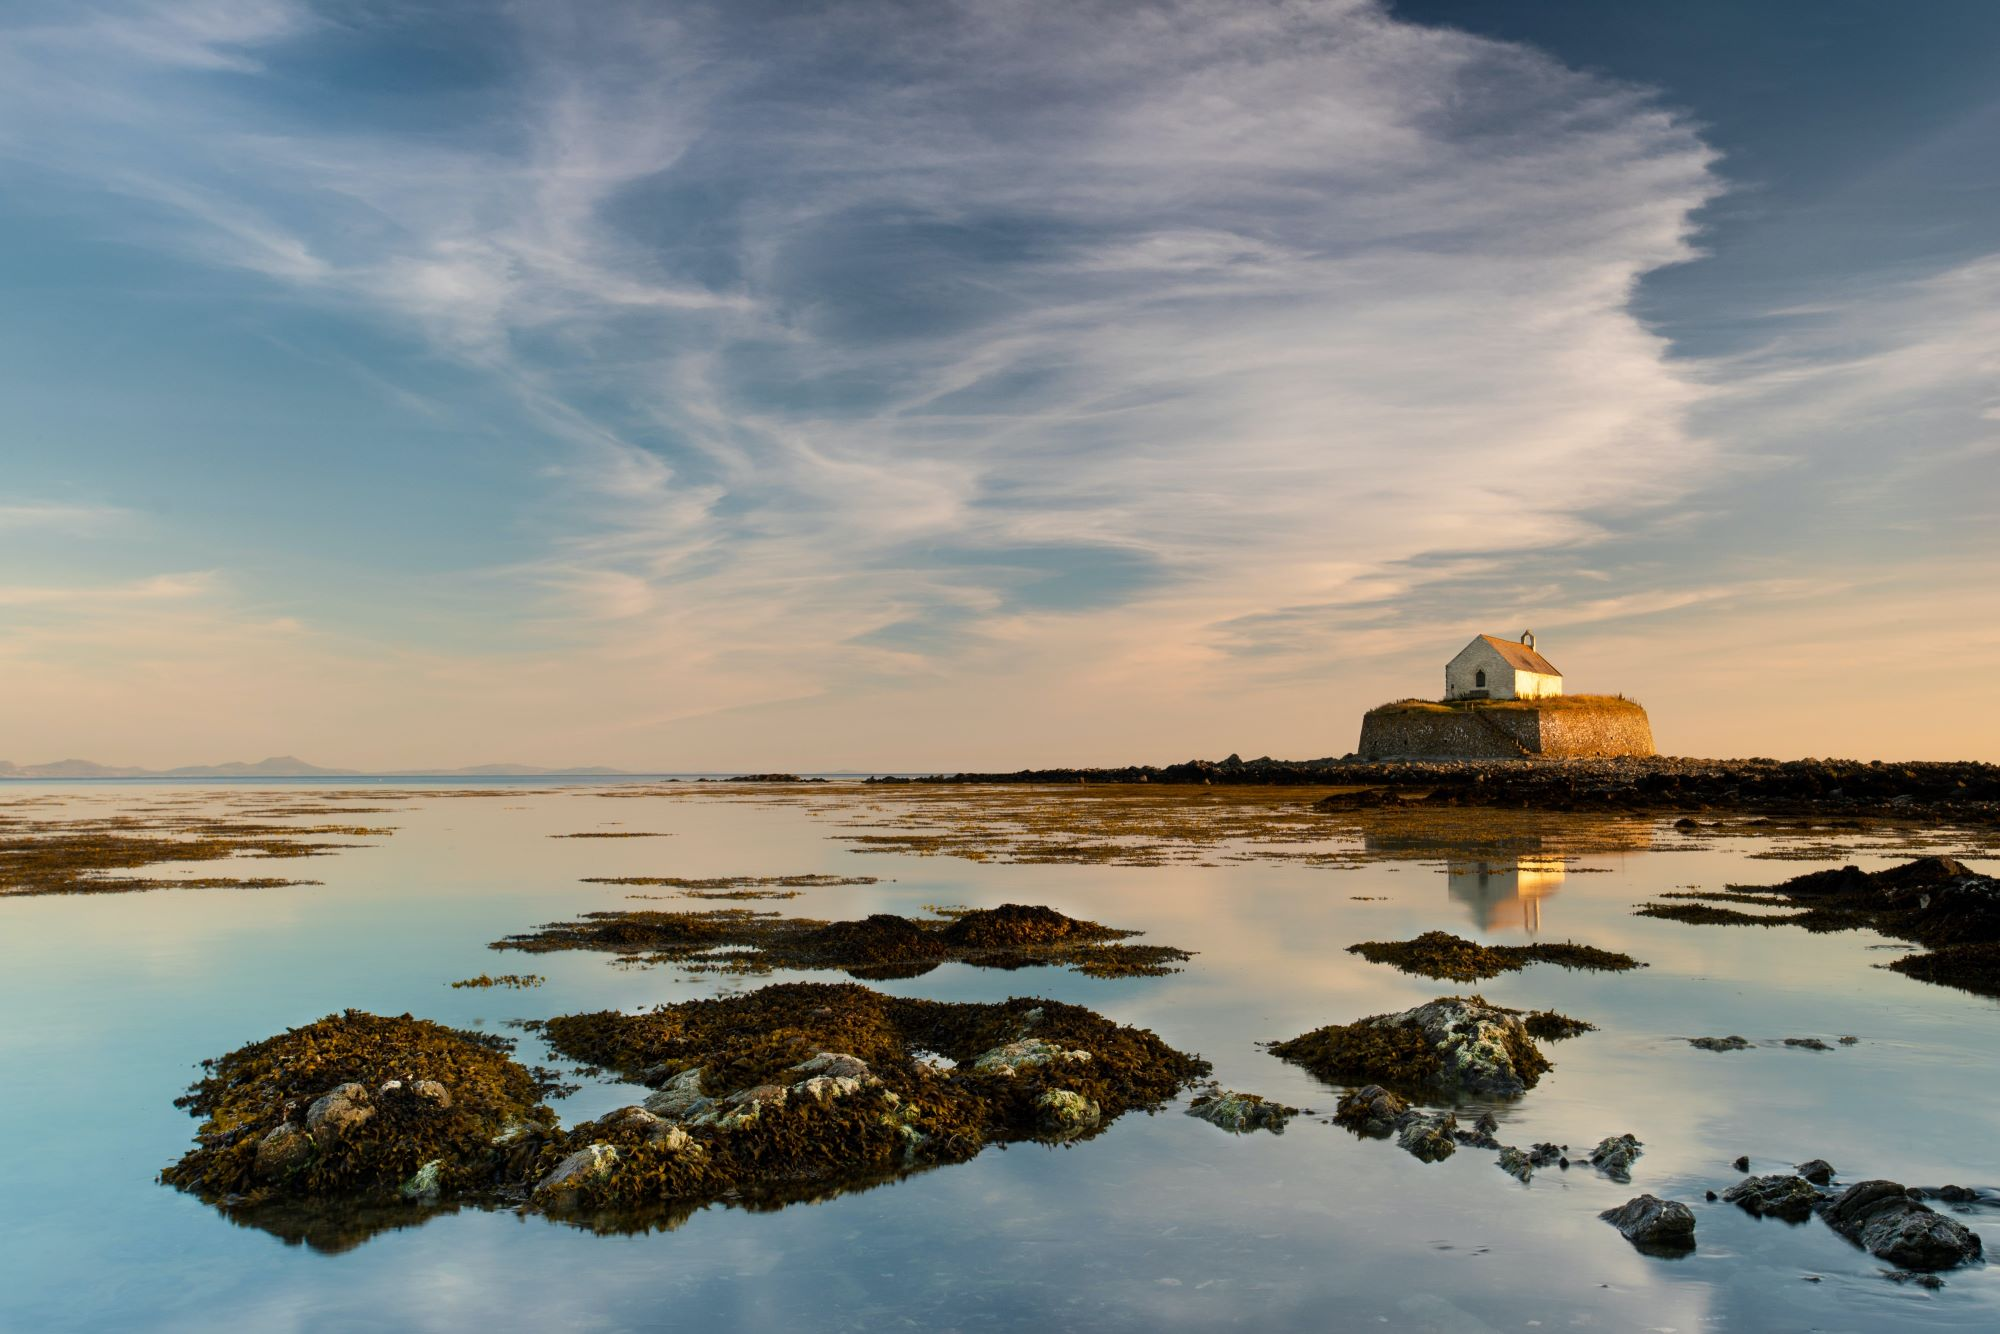
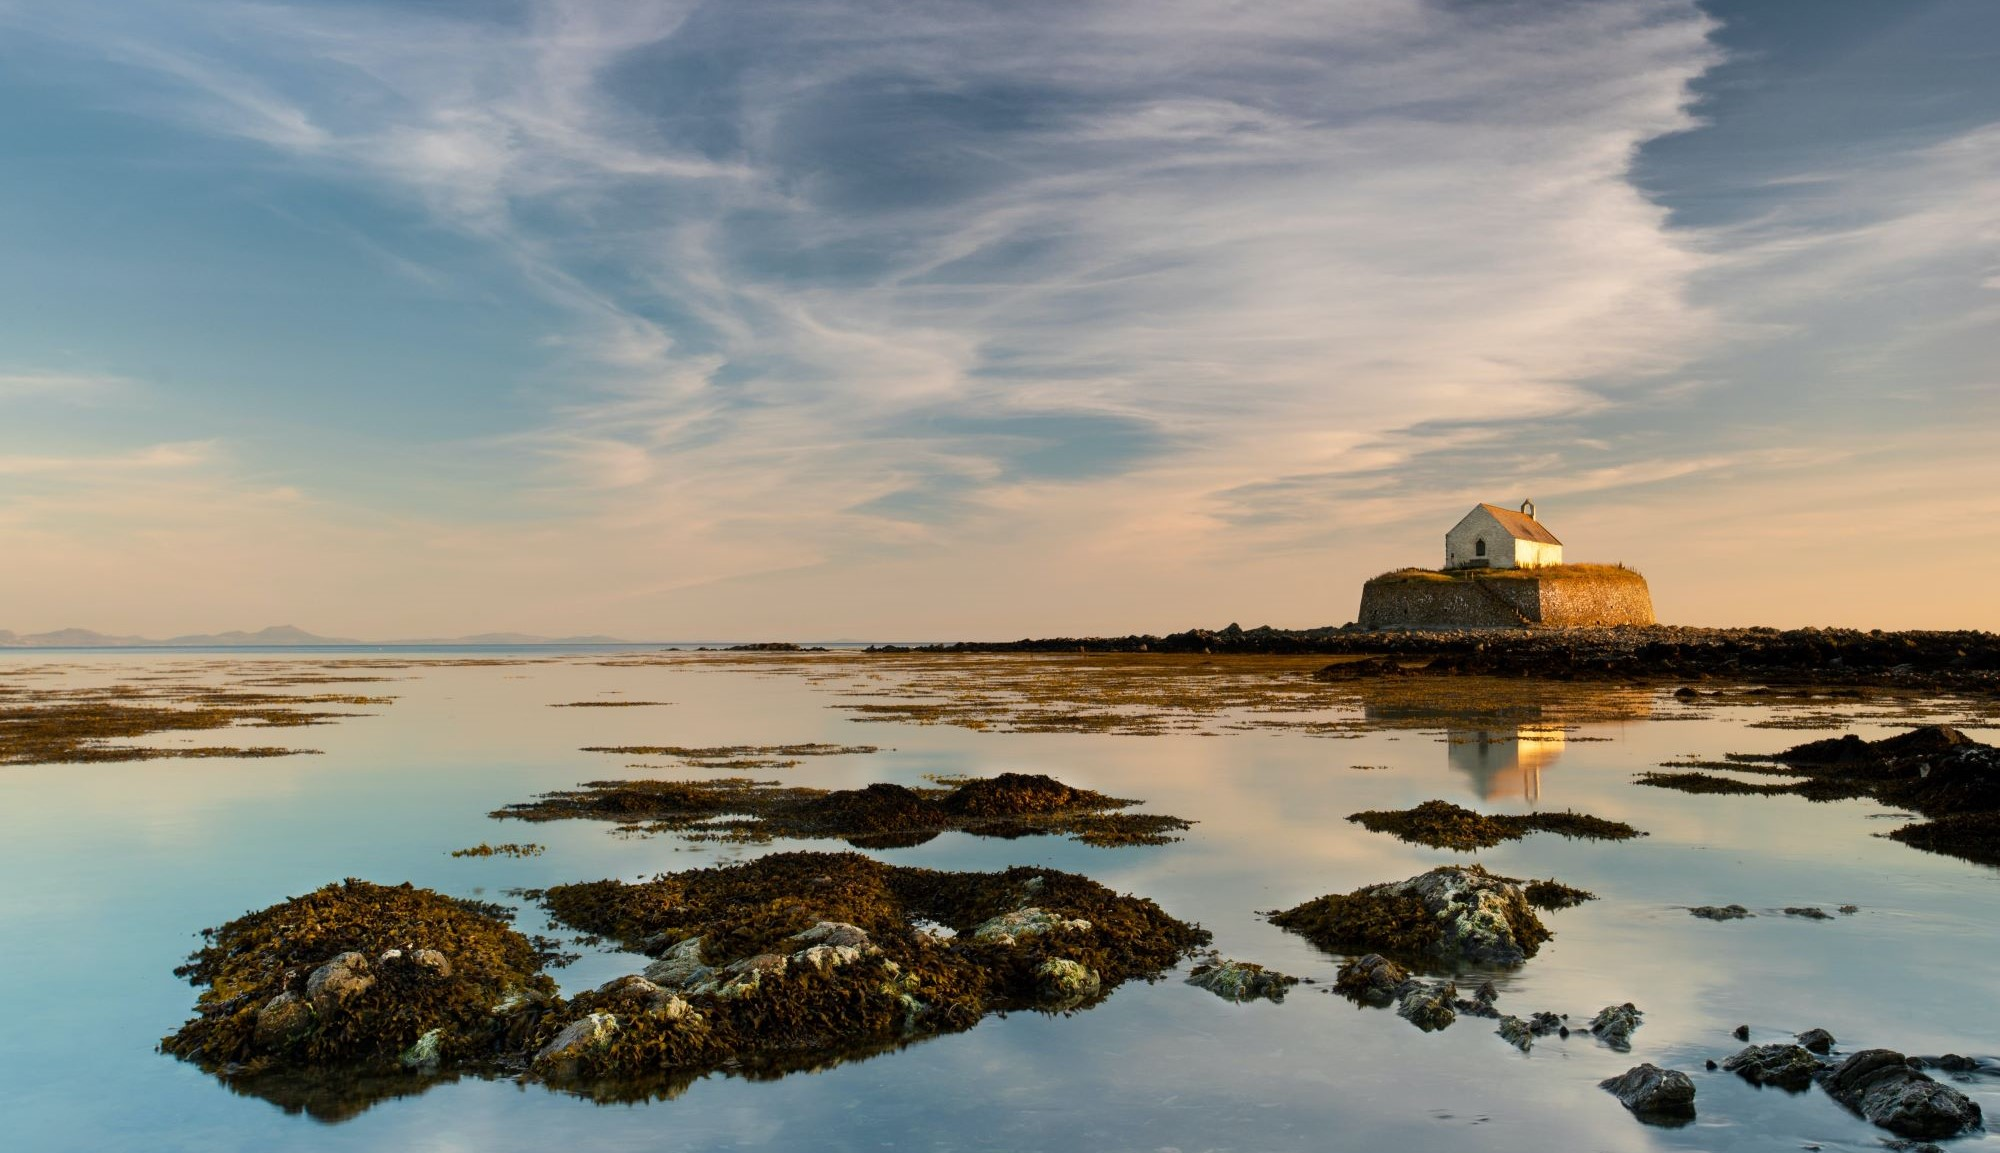
update

diff --git a/index.html b/index.html
@@ -8,19 +8,36 @@
     <script src="./app.js" defer></script>
 </head>
 <body>
-    <button></button>
-    <img id="displayImage" src="./images/large/ynys-llanddwyn-daniel-sessler.jpg" alt="Photograph of Ynys Llanddwyn at Newborough, Anglesey by Daniel Sessler. White stone lighthouse perched on a small rockey, tidal island at the edge of the sea">
-    <button></button>
-    <div class="thumbnails">
-        <img 
-        srcset="./images/thumbnails/ynys-llanddwyn-daniel-sessler.jpg 160w, ./images/large/ynys-llanddwyn-daniel-sessler.jpg 2000w" 
-        src="./images/large/ynys-llanddwyn-daniel-sessler.jpg" alt="Photograph of Ynys Llanddwyn at Newborough, Anglesey by Daniel Sessler. White stone lighthouse perched on a small rockey, tidal island at the edge of the sea" />
-        <img src="./images/large/tenby-harbour-beata-mitrega.jpg" alt="tenby harbour">
-        <img src="./images/large/caernarfon-castle-neil-mark-thomas.jpg" alt="caernarfon castle">
-        <img src="./images/large/snowdon-ian-kelsall.jpg" alt="yr wyddfa">
-        <img src="./images/large/cwyfan-church-mark-thomas.jpg" alt="cwyfan">
-        <img src="./images/large/blaenau-festiniog-gabriel-kiener.jpg" alt="blaenau festiniog">
-    </div>
+    <div id="announcer" class="hidden" role="status" aria-live="assertive" aria-atomic="true"></div>
+
+    <img id="displayImage" src="./images/large/ynys-llanddwyn-daniel-sessler.jpg" srcset="./images/small/ynys-llanddwyn-daniel-sessler.jpg 800w, ./images/large/ynys-llanddwyn-daniel-sessler.jpg 2000w" alt="Ynys Llanddwyn at Newborough, Anglesey by Daniel Sessler. White stone lighthouse perched on a small rockey, tidal island at the edge of the sea" />
     
+    <button id="prevBtn" class="mainBtn" aria-label="Go back to the previous image"><img src="./images/icons/arrow-left.png"></button>
+
+    <button id="nextBtn" class="mainBtn" aria-label="Go to the next image"><img src="./images/icons/arrow-right.png"></button>
+
+    <button id="viewAltBtn" aria-label="View the text description on the page">View Text</button>
+    
+    <div id="thumbBar">
+        <button id="leftThumbBtn" class="thumbBtn" aria-label="Scroll left through the thumbnail images"><img src="./images/icons/arrow-left.png"></button>
+
+        <div id="thumbContainer" class="thumbnails">
+        <img src="./images/large/ynys-llanddwyn-daniel-sessler.jpg" srcset="./images/small/ynys-llanddwyn-daniel-sessler.jpg 800w, ./images/large/ynys-llanddwyn-daniel-sessler.jpg 2000w" alt="Ynys Llanddwyn by Daniel Sessler. Taken at Newborough, Anglesey. White stone lighthouse perched on a small rockey, tidal island at the edge of the sea, greenery and heather in the foreground, bright blue sky" tabindex="0"/>
+        <img src="./images/large/tenby-harbour-beata-mitrega.jpg" srcset="./images/small/tenby-harbour-beata-mitrega.jpg 800w, ./images/large/tenby-harbour-beata-mitrega.jpg 2000w" alt="Tenby Harbour by Beata Mitrega. Colourful bulding fronts lining a bay, the building are set up on a hill with a small harbour beach below and some fishing boats in the water, sky hazy mix of yellow and pink with purple, blue clouds" tabindex="0"/>
+        <img src="./images/large/caernarfon-castle-neil-mark-thomas.jpg" srcset="./images/small/caernarfon-castle-neil-mark-thomas.jpg 800w, ./images/large/caernarfon-castle-neil-mark-thomas.jpg 2000w"  alt="Caernarfon Castle by Neil Mark Thomas. Large castle battlements veiwed from Caernarfon fishing harbour at dusk, the castle is lit from below, the sky is hazy pink and purple, the lights and the sky are reflecting in the water" tabindex="0"/>
+        <img src="./images/large/snowdon-ian-kelsall.jpg" srcset="./images/small/snowdon-ian-kelsall.jpg 800w, ./images/large/snowdon-ian-kelsall.jpg 2000w"  alt="Yr Wyddfa by Ian Kelsall. Panoramic view from up high on Yr Wyddfa, or Mount Snowdon in English. Rolling mountains in the distance, lakes dotted through the valley below, rocks and moss in the foreground, blue sky with fluffy white clouds" tabindex="0"/>
+        <img src="./images/large/cwyfan-church-mark-thomas.jpg" srcset="./images/small/cwyfan-church-mark-thomas.jpg 800w, ./images/large/cwyfan-church-mark-thomas.jpg 2000w"  alt="Cwyfan Church by Mark Thomas. Small, old, white stone church built up on a stone island, perched on a rocky peninsula.  The chuch is in the background surrounded by calm sea and seaweed covered rocks, sky is pale blue with wispy clouds" tabindex="0"/>
+        <img src="./images/large/blaenau-festiniog-gabriel-kiener.jpg" srcset="./images/small/blaenau-festiniog-gabriel-kiener.jpg 800w, ./images/large/blaenau-festiniog-gabriel-kiener.jpg 2000w"  alt="Blaenau Festiniog by Gabriel Kiener. Small, ancient dry stone bridge over a bubbling, rocky stream, in the forests outside of Blaenau Festiniog in Eryri National Park. Autumnal trees in the background and deep yellow grasses and shrubs in the foreground" tabindex="0"/>
+        <img src="./images/large/bullslaughter-bay-ian-cylkowski.jpg" srcset="./images/small/bullslaughter-bay-ian-cylkowski.jpg 800w, ./images/large/bullslaughter-bay-ian-cylkowski.jpg 2000w"  alt="Bullslaughter Bay by Ian Cylkowski. Remote bay in Pembrokshire, sandy beach surrounded by dramatic, steep cliffs. Taken from the clifftops, grass coverd rocks in the foreground, bright blue waters and sunny pale blue sky" tabindex="0"/>
+        <img src="./images/large/ruin-snowdonia-kenny-orr.jpg" srcset="./images/small/ruin-snowdonia-kenny-orr.jpg 800w, ./images/large/ruin-snowdonia-kenny-orr.jpg 2000w"  alt="Ruin Snowdonia by Kenny Orr. Crumbling old stone ruin built into the hillside and the edge of a glacial lake in Eryri National Park. Dark, steep cliffs in the background, sunlight hitting the ruins and water, blue skys with bright white clouds" tabindex="0"/>
+        <img src="./images/large/aberaeron-andy-newton.jpg" srcset="./images/small/aberaeron-andy-newton.jpg 800w, ./images/large/aberaeron-andy-newton.jpg 2000w"  alt="Aberaeron by Andy Newton. Colourful building fronts lining the harbour along a straight, old, stone harbour wall.  Small boats are dotted in the water, sky is pale blue" tabindex="0"/>
+        <img src="./images/large/castlemartin-ian-cylkowski.jpg" srcset="./images/small/castlemartin-ian-cylkowski.jpg 800w, ./images/large/castlemartin-ian-cylkowski.jpg 2000w"  alt="Castlemartin by Ian Cylkowski. The Green Bridge of Wales near Castlemartin, a naturally formed rock arch protruding from the cliffs into the sea. Taken from the cliff top, yellow and green moss covered rocks int he foregournd, bright blue sea with white foam where it hits the rocks, the sea and far cliffs continue into the background" tabindex="0"/>
+        <img src="./images/large/ty-canol-marc-pell.jpg" srcset="./images/small/ty-canol-marc-pell.jpg 800w, ./images/large/ty-canol-marc-pell.jpg 2000w"  alt="Tycanol by Marc Pell. Ancient woodland in nature resernve near Newport, Pembrokshire. Densely pack trees with twisting branches, trees and floor covered in bright, green moss and ferns" tabindex="0"/>
+        </div>
+
+        <button id="rightThumbBtn" class="thumbBtn" aria-label="Scroll right through the thumbnail images"><img src="./images/icons/arrow-right.png"></button>
+    </div> 
+
+    <button id="hideThumb" aria-label="Hide or Show the thumbnail bar" ><img id="hideThumbImg" src="./images/icons/arrow-down.png"></button>
 </body>
 </html>

diff --git a/app.js b/app.js
@@ -1,12 +1,111 @@
-const tns = document.querySelectorAll(".thumbnails img")
-const di = document.getElementById("displayImage")
+const thumbnails = document.querySelectorAll(".thumbnails img")
+const thumbContainer = document.getElementById("thumbContainer")
+const displayImage = document.getElementById("displayImage")
+const nextBtn = document.getElementById("nextBtn")
+const prevBtn = document.getElementById("prevBtn")
+const rightThumbBtn = document.getElementById("rightThumbBtn")
+const leftThumbBtn = document.getElementById("leftThumbBtn")
+const hideThumb = document.getElementById("hideThumb")
+const hideThumbImg = document.getElementById("hideThumbImg")
+const thumbBar = document.getElementById("thumbBar")
+const announcer = document.getElementById("announcer")
+const viewAltBtn = document.getElementById("viewAltBtn")
+let currentImage = 0
+let scrollingInterval = 0
 
-tns.forEach(function (tn) {
+thumbnails.forEach(function (tn) {
     tn.addEventListener("click", function() {
-        di.src = tn.src
-        di.alt = tn.alt
-        // di.srcset = tn.srcset
+        displayImage.src = tn.src;
+        displayImage.alt = tn.alt;
+        displayImage.srcset = tn.srcset;
     })
+    tn.addEventListener("keydown", function(event) {
+        if (event.key === " " || event.key === "Enter") {
+            displayImage.src = tn.src;
+            displayImage.alt = tn.alt;
+            displayImage.srcset = tn.srcset;
+    }})
 })
 
+leftThumbBtn.addEventListener("click", function() {
+    thumbContainer.scrollLeft -= 100
+})
+
+rightThumbBtn.addEventListener("click", function() {
+    thumbContainer.scrollLeft += 100
+})
+
+leftThumbBtn.addEventListener("mouseover", function() {
+    scrollingInterval = setInterval(function () {
+        thumbContainer.scrollLeft -= 3
+    }, 100)
+})
+
+leftThumbBtn.addEventListener("mouseout", function() {
+    clearInterval(scrollingInterval)
+})
+
+rightThumbBtn.addEventListener("mouseover", function() {
+    scrollingInterval = setInterval(function () {
+        thumbContainer.scrollLeft += 3
+    }, 100)
+})
+
+rightThumbBtn.addEventListener("mouseout", function() {
+    clearInterval(scrollingInterval)
+})
+
+hideThumb.addEventListener("click", function() {
+    thumbBar.classList.toggle("hidden")
+    hideThumbImg.classList.toggle("flip")
+    })
+
+function displayNextImage(i) {
+    currentImage += i
+    if (currentImage >= thumbnails.length) currentImage = 0
+    if (currentImage < 0) currentImage = thumbnails.length - 1
+    displayImage.src = thumbnails[currentImage].src
+    displayImage.alt = thumbnails[currentImage].alt
+    displayImage.srcset = thumbnails[currentImage].srcset
+    announcer.textContent = `${displayImage.alt}`
+}
+
+nextBtn.addEventListener("click", function() {
+    displayNextImage(1)
+})
+
+prevBtn.addEventListener("click", function() {
+    displayNextImage(-1)
+})
+
+document.addEventListener("keydown", function(event) {
+    if (event.key === "ArrowLeft") {
+        displayNextImage(-1)
+    } else if (event.key === "ArrowRight") {
+        displayNextImage(1)
+    }
+})
+
+document.addEventListener("keydown", function(event) {
+    if (event.key === "ArrowDown") {
+        thumbBar.classList.add("hidden")
+        hideThumbImg.classList.add("flip")
+    } else if (event.key === "ArrowUp") {
+        thumbBar.classList.remove("hidden")
+        hideThumbImg.classList.remove("flip")
+    }
+})
+
+function setAltText() {
+    announcer.textContent = `${displayImage.alt}.`
+}
+
+setAltText()
+
+viewAltBtn.addEventListener("click", function() {
+    announcer.classList.toggle("hidden")
+    if (viewAltBtn.textContent = "View Text") {
+        viewAltBtn.textContent = "Hide Text"
+    }
+})
 

diff --git a/style.css b/style.css
@@ -8,30 +8,186 @@ body {
     background-color: black;
 }
 
+#thumbBar {
+    display: grid;
+    grid-template-columns: 20px 1fr 20px;
+    grid-template-rows: 1fr;
+    height: 100px;
+    width: 320px;
+    max-width: 95%;
+    bottom: 5%;
+    left: 50%;
+    transform: translateX(-50%);
+    z-index: 10;
+    position: fixed;
+    background-color: rgba(61, 59, 59, 0.7);
+    border-radius: 10%;
+}
+
 .thumbnails {
     display: flex;
     flex-direction: row;
-    justify-content: center;
+    justify-content: start;
     align-items: center;
-    background-color: #0e1111;
-    height: 120px;
-    width: 100vw;
-    position: fixed;
-    bottom: 0;
-    left: 0;
-    right: 0;
-    z-index: 10;
+    overflow: hidden;    
 }
 
 .thumbnails img {
-    width: 160px;
-    height: 106px;
-    padding: 5px;
+    width: 110px;
+    height: 90px;
+    padding: 3px;
     border: 1px solid transparent;
 }
 
 #displayImage {
     width: 100vw;
-    object-fit: cover;
+    object-fit: contain;
     overflow: hidden;
+    position: fixed;
+    top: 50%;
+    transform: translateY(-50%);
+}
+
+#nextBtn {
+    position: absolute;
+    background-color: transparent;
+    border: 0;
+    right: 5vw;
+    top: 50vh;
+    max-width: 30px;
+    z-index: 10;
+}
+
+#prevBtn {
+    position: absolute;
+    background-color: transparent;
+    border: 0;
+    left: 5vw;
+    top: 50vh;
+    max-width: 30px;
+    z-index: 10;
+}
+
+#leftThumbBtn {
+    background-color: transparent;
+    border: 0;
+    max-width: 30px;
+    z-index: 1;
+    padding: 5px;
+    display: flex;
+    justify-self: center;
+    align-self: center;
+}
+
+#rightThumbBtn {
+    background-color: transparent;
+    border: 0;
+    max-width: 30px;
+    z-index: 1;
+    padding: 5px;
+    display: flex;
+    justify-self: center;
+    align-self: center;
+}
+
+#hideThumb {
+    position: absolute;
+    background-color: transparent;
+    border: 0;
+    bottom: 1vh;
+    left: 50%;
+    transform: translateX(-50%);
+    max-width: 30px;
+    z-index: 10;
+}
+
+#viewAltBtn {
+    position:absolute;
+    left: 1vw;
+    top: 1vh;
+    background-color: white;
+    color: black;
+    font-size: 0.8rem;
+    padding: 5px;
+    font-family: Arial, sans-serif;
+    font-weight: bold;
+    text-align: center;
+    text-wrap: wrap;
+    width: 40px;
+    border-radius: 4px;
+    border: 0;
+}
+
+.mainBtn img {
+    width: 20px;
+}
+
+.thumbBtn img {
+    width: 16px;
+}
+
+#hideThumb img {
+    height: 20px;
+}
+
+.mainBtn:focus, .thumbBtn:focus, #hideThumb:focus, #viewAltBtn:focus, .thumbnails img:focus {
+    outline: 2px solid fuchsia;
+}
+
+.hidden {
+    visibility: hidden;
+}
+
+.flip {
+    transform: scaleY(-1);
+}
+
+#announcer {
+    font-family: Arial, sans-serif;
+    color: white;
+    background-color: none;
+    font-size: 0.9rem;
+    letter-spacing: 1px;
+    padding: 1rem;
+    text-align: center;
+    width: 80%;
+    position: absolute;
+    top: 5vh;
+    left: 50%;
+    transform: translateX(-50%);
+    z-index: 100;
+}
+
+@media (min-width: 760px) {
+    #announcer {
+        background-color: rgb(0, 0, 0, 0.5);
+        font-size: 1.2rem;
+    }
+
+    #thumbBar {
+        width: 800px;
+        height: 120px;
+        grid-template-columns: 30px 1fr 30px;
+        background-color: rgb(0, 0, 0, 0.7);
+    }
+    .thumbnails img {
+        width: 160px;
+        height: 106px;
+        padding: 5px;
+    }
+    .thumbBtn img {
+        width: 20px;
+    }
+    .mainBtn img {
+        width: 30px;
+    }
+    #hideThumb img {
+        height: 30px;
+    }
+    #displayImage {
+        width: 100%;
+        height: 100vh;
+        object-fit: cover;
+        overflow: hidden;
+    }
 }
